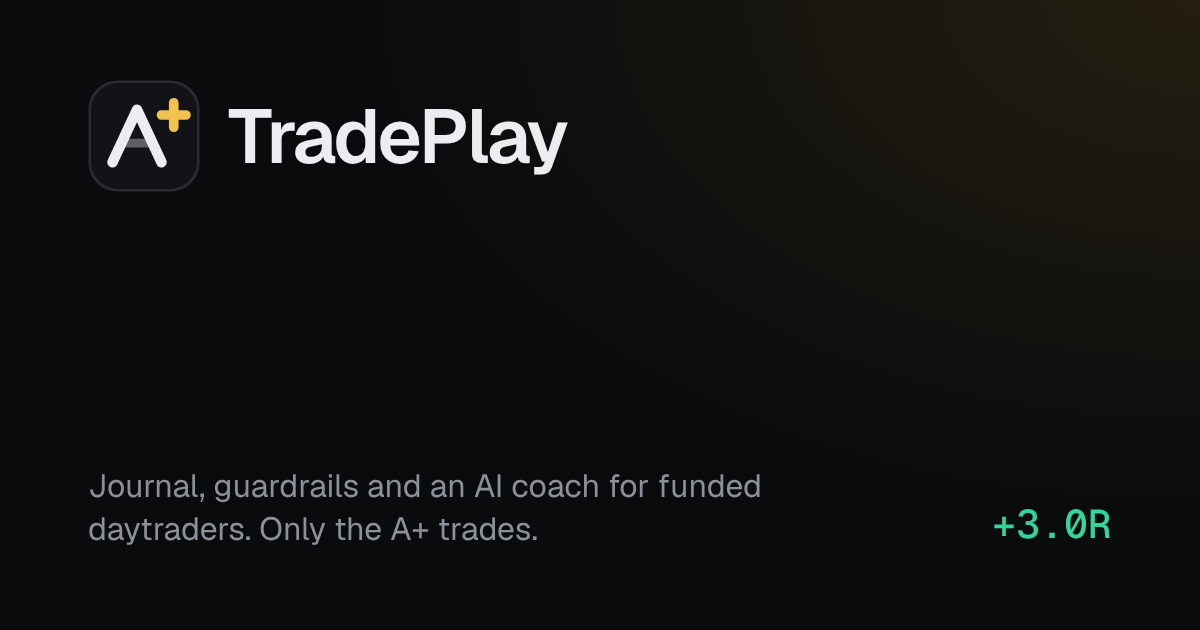
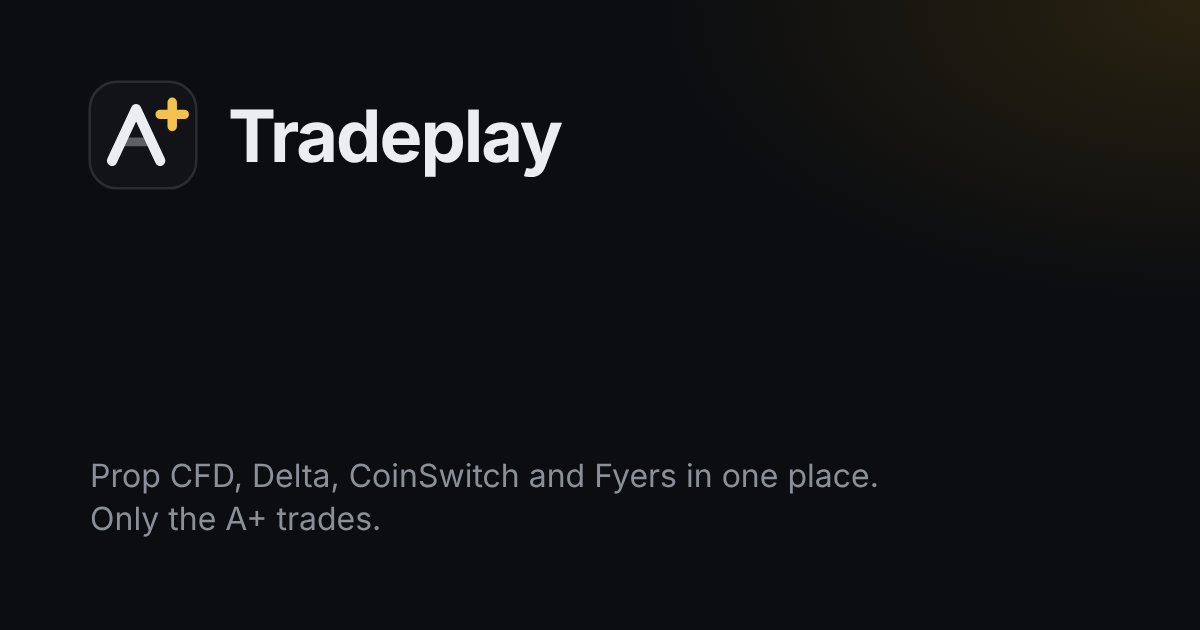
Rename the app to Tradeplay: header, sign-in, titles, investor pages and link preview

diff --git a/apps/web/app/investors/page.tsx b/apps/web/app/investors/page.tsx
@@ -170,14 +170,14 @@ export default function Investors() {
       </section>
 
       <section className="card flush">
-        <div className="ch" style={{ padding: "14px 16px 0" }}><h3>Prop account purchases</h3><span className="sp" /><span className="faint" style={{ fontSize: 12 }}>Registered to A+ Tradeplay · fees as entered</span></div>
+        <div className="ch" style={{ padding: "14px 16px 0" }}><h3>Prop account purchases</h3><span className="sp" /><span className="faint" style={{ fontSize: 12 }}>Registered to Tradeplay · fees as entered</span></div>
         {(purchases.rows ?? []).length === 0 ? <div style={{ padding: 16 }}><Empty>No purchases</Empty></div> : (
           <Table head={["Order", "For investor", "Firm · plan", "Size", "Fee", "Paid by", "Bought", "Status", ""]} right={[3, 4]}>
             {(purchases.rows ?? []).map((p) => (
               <tr key={p.id}>
                 <td className="mono faint">{p.ref}</td><td>{name(p.investor_id)}</td><td>{p.firm} · {p.plan}</td>
                 <td className="r mono">{money(Number(p.size), "USD", 0)}</td><td className="r mono">{p.fee !== null ? money(Number(p.fee)) : "—"}</td>
-                <td>{p.paid_by === "investor" ? "Investor transfer" : "A+ Tradeplay"}</td>
+                <td>{p.paid_by === "investor" ? "Investor transfer" : "Tradeplay"}</td>
                 <td className="mono faint">{dateShort((p as unknown as { purchased_at: string | null }).purchased_at)}</td>
                 <td>
                   <select className={`chip ${P_TONE[p.status]}`} aria-label="Purchase status" value={p.status} onChange={(e) => setPurchase(p.id, e.target.value)}>
@@ -215,7 +215,7 @@ export default function Investors() {
               <label className="fld"><span>Plan</span><div className="inp txt"><input value={pp.plan} onChange={(e) => setPp({ ...pp, plan: e.target.value })} /></div></label>
               <label className="fld"><span>Size</span><div className="inp"><input inputMode="decimal" value={pp.size} onChange={(e) => setPp({ ...pp, size: e.target.value })} /><span className="u">USD</span></div></label>
               <label className="fld"><span>Fee</span><div className="inp"><input inputMode="decimal" value={pp.fee} onChange={(e) => setPp({ ...pp, fee: e.target.value })} /><span className="u">USD</span></div></label>
-              <label className="fld"><span>Paid by</span><div className="inp"><select value={pp.paid_by} onChange={(e) => setPp({ ...pp, paid_by: e.target.value })}><option value="investor">Investor transfer</option><option value="aplus">A+ Tradeplay</option></select></div></label>
+              <label className="fld"><span>Paid by</span><div className="inp"><select value={pp.paid_by} onChange={(e) => setPp({ ...pp, paid_by: e.target.value })}><option value="investor">Investor transfer</option><option value="aplus">Tradeplay</option></select></div></label>
             </div>
             <div className="row" style={{ marginTop: 14, justifyContent: "flex-end" }}><button className="btn pri">Save</button></div>
           </form>

diff --git a/apps/web/app/login/page.tsx b/apps/web/app/login/page.tsx
@@ -36,7 +36,7 @@ export default function Login() {
   return (
     <div style={{ minHeight: "100vh", background: "var(--bg)", color: "var(--text)", display: "flex", flexWrap: "wrap" }}>
       <section className="hide-m" style={{ flex: "1 1 520px", padding: 48, display: "flex", flexDirection: "column", justifyContent: "space-between", gap: 32, borderRight: "1px solid var(--line)", background: "var(--surface)" }}>
-        <div className="row"><Logo className="h-9 w-9" /><b style={{ fontSize: 18, letterSpacing: "-0.02em" }}>A+ Tradeplay</b></div>
+        <div className="row"><Logo className="h-9 w-9" /><b style={{ fontSize: 18, letterSpacing: "-0.02em" }}>Tradeplay</b></div>
         <div className="col" style={{ gap: 16, maxWidth: 480 }}>
           <h1 style={{ fontSize: 38, lineHeight: 1.08, letterSpacing: "-0.035em", fontWeight: 600 }}>One edge. Seven boxes. No exceptions.</h1>
           <div className="col" style={{ gap: 8, marginTop: 8 }}>
@@ -50,7 +50,7 @@ export default function Login() {
 
       <section style={{ flex: "1 1 420px", display: "grid", placeItems: "center", padding: "32px 16px" }}>
         <form onSubmit={submit} className="card" style={{ width: "100%", maxWidth: 400, padding: 28, display: "flex", flexDirection: "column", gap: 16 }}>
-          <div className="row show-m"><Logo className="h-9 w-9" /><b style={{ fontSize: 17 }}>A+ Tradeplay</b></div>
+          <div className="row show-m"><Logo className="h-9 w-9" /><b style={{ fontSize: 17 }}>Tradeplay</b></div>
           <div className="col" style={{ gap: 4 }}>
             <h2 style={{ fontSize: 20, letterSpacing: "-0.02em" }}>{mode === "forgot" ? "Reset password" : "Sign in"}</h2>
             <span className="muted" style={{ fontSize: 13 }}>Use the email your invite was sent to.</span>

diff --git a/apps/web/components/MfaGate.tsx b/apps/web/components/MfaGate.tsx
@@ -26,7 +26,7 @@ export default function MfaGate({ onDone }: { onDone: () => void }) {
       const verified = data.totp.find((f) => f.status === "verified");
       if (verified) return setFactorId(verified.id);
       for (const f of data.all.filter((f) => f.status !== "verified")) await supabase.auth.mfa.unenroll({ factorId: f.id });
-      const en = await supabase.auth.mfa.enroll({ factorType: "totp", friendlyName: "A+ Tradeplay" });
+      const en = await supabase.auth.mfa.enroll({ factorType: "totp", friendlyName: "Tradeplay" });
       if (en.error) return setError(en.error.message);
       setFactorId(en.data.id);
       setQr(en.data.totp.qr_code);
@@ -59,7 +59,7 @@ export default function MfaGate({ onDone }: { onDone: () => void }) {
   return (
     <div style={{ minHeight: "100vh", display: "grid", placeItems: "center", padding: "32px 16px", background: "var(--bg)" }}>
       <form onSubmit={(e) => { e.preventDefault(); verify(); }} className="card" style={{ width: "100%", maxWidth: 400, padding: 28, display: "flex", flexDirection: "column", gap: 16 }}>
-        <div className="row"><Logo className="h-9 w-9" /><b style={{ fontSize: 17 }}>A+ Tradeplay</b></div>
+        <div className="row"><Logo className="h-9 w-9" /><b style={{ fontSize: 17 }}>Tradeplay</b></div>
         <div className="col" style={{ gap: 4 }}>
           <h2 style={{ fontSize: 20, letterSpacing: "-0.02em" }}>{qr ? "Set up two-factor" : "Two-factor check"}</h2>
           <span className="muted" style={{ fontSize: 13 }}>{qr ? "Scan with your authenticator app, then enter the 6-digit code." : "Enter the 6-digit code from your authenticator app."}</span>

diff --git a/apps/web/components/Shell.tsx b/apps/web/components/Shell.tsx
@@ -314,7 +314,7 @@ function initials(name: string) {
 function Sidebar({ items, active, sub, counts, name, onNavigate }: { items: NavItem[]; active: (h: string) => boolean; sub: string; counts: Record<string, string>; name: string; onNavigate?: () => void }) {
   return (
     <aside className="side">
-      <div className="brand"><Logo /><div><b>A+ Tradeplay</b><small>{sub}</small></div></div>
+      <div className="brand"><Logo /><div><b>Tradeplay</b><small>{sub}</small></div></div>
       <nav className="navs" aria-label="Main">
         {items.map((n, i) =>
           n.h ? <div key={i} className="nav-h">{n.h}</div> : (
@@ -456,7 +456,7 @@ export default function Shell({ children }: { children: React.ReactNode }) {
   const sideItems = investorView && isStaff ? [...INVESTOR_NAV, { h: "Owner" }, { href: "/", l: "Back to owner console", i: "M15 18l-6-6 6-6" }] : items;
   const active = (href: string) => (href === "/" || href === "/me" ? pathname === href : pathname.startsWith(href));
   const key = TITLES[pathname] ? pathname : pathname.startsWith("/arena/") ? pathname.split("/").slice(0, 3).join("/") : "/" + pathname.split("/")[1];
-  const title = investorView && pathname === "/me" ? `Hi ${base.name.split(/[\s._-]/)[0]}` : TITLES[key] ?? "A+ Tradeplay";
+  const title = investorView && pathname === "/me" ? `Hi ${base.name.split(/[\s._-]/)[0]}` : TITLES[key] ?? "Tradeplay";
   const group = investorView ? "" : GROUPS[key] ?? "";
   const tabs = items.filter((n) => n.tl);
   const me: Me = { ...base, isStaff, settings, updateSettings, stepUp };

diff --git a/apps/web/app/me/accounts/page.tsx b/apps/web/app/me/accounts/page.tsx
@@ -33,7 +33,7 @@ function Accounts() {
           const floor = r.max_loss_pct ? start * (1 - r.max_loss_pct / 100) : null;
           return (
             <div key={a.id} className="card s6" style={{ display: "flex", flexDirection: "column", gap: 14 }}>
-              <div className="between"><div className="col" style={{ gap: 2 }}><b style={{ fontSize: 16 }}>{a.name}</b><span className="faint" style={{ fontSize: 12 }}>{a.venue}{pp ? ` · ${pp.plan}` : ""} · registered to A+ Tradeplay</span></div><Chip tone={stage === "funded" ? "up" : stage === "breached" ? "down" : stage === "managed" ? "acc" : "info"}>{stage.replace(/_/g, " ").replace(/^\w/, (c) => c.toUpperCase())}</Chip></div>
+              <div className="between"><div className="col" style={{ gap: 2 }}><b style={{ fontSize: 16 }}>{a.name}</b><span className="faint" style={{ fontSize: 12 }}>{a.venue}{pp ? ` · ${pp.plan}` : ""} · registered to Tradeplay</span></div><Chip tone={stage === "funded" ? "up" : stage === "breached" ? "down" : stage === "managed" ? "acc" : "info"}>{stage.replace(/_/g, " ").replace(/^\w/, (c) => c.toUpperCase())}</Chip></div>
               <div className="auto-s" style={{ gridTemplateColumns: "repeat(3, minmax(0, 1fr))", gap: 8 }}>
                 <div><div className="lbl">Balance</div><b className="mono">{money(Number(a.balance), a.currency)}</b></div>
                 <div><div className="lbl">Profit this cycle</div><b className={`mono ${profit >= 0 ? "up" : "down"}`}>{profit >= 0 ? "+" : ""}{money(profit, a.currency)}</b></div>

diff --git a/apps/web/lib/server/http.ts b/apps/web/lib/server/http.ts
@@ -6,7 +6,7 @@ export async function getJson<T>(url: string, init: RequestInit & { timeoutMs?: 
   const ctl = new AbortController();
   const t = setTimeout(() => ctl.abort(), timeoutMs);
   try {
-    const res = await fetch(url, { cache: "no-store", ...rest, signal: ctl.signal, headers: { accept: "application/json", "user-agent": "Mozilla/5.0 (A+ Tradeplay desk)", ...(rest.headers ?? {}) } });
+    const res = await fetch(url, { cache: "no-store", ...rest, signal: ctl.signal, headers: { accept: "application/json", "user-agent": "Mozilla/5.0 (Tradeplay desk)", ...(rest.headers ?? {}) } });
     if (!res.ok) throw new Error(`${new URL(url).host} HTTP ${res.status}`);
     return (await res.json()) as T;
   } catch (e) {
@@ -21,7 +21,7 @@ export async function getText(url: string, timeoutMs = 8000): Promise<string> {
   const ctl = new AbortController();
   const t = setTimeout(() => ctl.abort(), timeoutMs);
   try {
-    const res = await fetch(url, { cache: "no-store", signal: ctl.signal, headers: { "user-agent": "Mozilla/5.0 (A+ Tradeplay desk)", accept: "application/rss+xml, application/xml, text/xml, */*" } });
+    const res = await fetch(url, { cache: "no-store", signal: ctl.signal, headers: { "user-agent": "Mozilla/5.0 (Tradeplay desk)", accept: "application/rss+xml, application/xml, text/xml, */*" } });
     if (!res.ok) throw new Error(`${new URL(url).host} HTTP ${res.status}`);
     return await res.text();
   } finally {

diff --git a/apps/web/app/layout.tsx b/apps/web/app/layout.tsx
@@ -11,16 +11,16 @@ const siteUrl =
 
 export const metadata: Metadata = {
   metadataBase: new URL(siteUrl),
-  title: { default: "A+ Tradeplay", template: "%s · A+ Tradeplay" },
+  title: { default: "Tradeplay", template: "%s · Tradeplay" },
   description: "Only the A+ trades.",
-  applicationName: "A+ Tradeplay",
+  applicationName: "Tradeplay",
   robots: { index: false, follow: false },
   icons: {
     icon: [{ url: "/favicon.ico", sizes: "any" }, { url: "/icon.svg", type: "image/svg+xml" }],
     apple: "/apple-touch-icon.png",
   },
-  openGraph: { title: "A+ Tradeplay", description: "Only the A+ trades.", images: [{ url: "/og.png", width: 1200, height: 630 }], type: "website" },
-  appleWebApp: { capable: true, title: "A+ Tradeplay", statusBarStyle: "black-translucent" },
+  openGraph: { title: "Tradeplay", description: "Only the A+ trades.", images: [{ url: "/og.png", width: 1200, height: 630 }], type: "website" },
+  appleWebApp: { capable: true, title: "Tradeplay", statusBarStyle: "black-translucent" },
 };
 
 export const viewport: Viewport = {

diff --git a/apps/web/lib/server/ai.ts b/apps/web/lib/server/ai.ts
@@ -25,7 +25,7 @@ export async function complete(p: { system: string; user: string; maxTokens?: nu
         "content-type": "application/json",
         authorization: `Bearer ${process.env.OPENROUTER_API_KEY}`,
         "HTTP-Referer": process.env.APP_URL || "https://tradeplay.cloud",
-        "X-Title": "A+ Tradeplay",
+        "X-Title": "Tradeplay",
       },
       body: JSON.stringify({
         model,
@@ -78,7 +78,7 @@ export async function chat(p: { system: string; turns: ChatTurn[]; maxTokens?: n
         "content-type": "application/json",
         authorization: `Bearer ${process.env.OPENROUTER_API_KEY}`,
         "HTTP-Referer": process.env.APP_URL || "https://tradeplay.cloud",
-        "X-Title": "A+ Tradeplay",
+        "X-Title": "Tradeplay",
       },
       body: JSON.stringify({ model, max_tokens: p.maxTokens ?? 900, temperature: 0.3, messages }),
     });

diff --git a/apps/web/components/Brand.tsx b/apps/web/components/Brand.tsx
@@ -1,5 +1,5 @@
-/** A+ TradePlay mark: a peak (the "A") and a gold plus. Works on dark and light grounds. */
-export function Logo({ className = "h-8 w-8", title = "A+ TradePlay" }: { className?: string; title?: string }) {
+/** Tradeplay mark: a peak (the "A") and a gold plus. Works on dark and light grounds. */
+export function Logo({ className = "h-8 w-8", title = "Tradeplay" }: { className?: string; title?: string }) {
   return (
     <svg viewBox="0 0 64 64" className={className} role="img" aria-label={title}>
       <rect x="1" y="1" width="62" height="62" rx="16" fill="#121317" stroke="#2A2C33" strokeWidth="1.5" />

diff --git a/apps/web/app/globals.css b/apps/web/app/globals.css
@@ -1,7 +1,7 @@
 @import "tailwindcss";
 
 /* ---------------------------------------------------------------
- * A+ Tradeplay — the designed component system (App Design canvas),
+ * Tradeplay — the designed component system (App Design canvas),
  * branded with the A+ journal palette: gold accent, violet curves,
  * Geist / Geist Mono, soft radii and pill buttons.
  * Mode: .dark / .light on <html>. Accent: .t-gold (default) · .t-ocean · .t-ember · .t-violet
